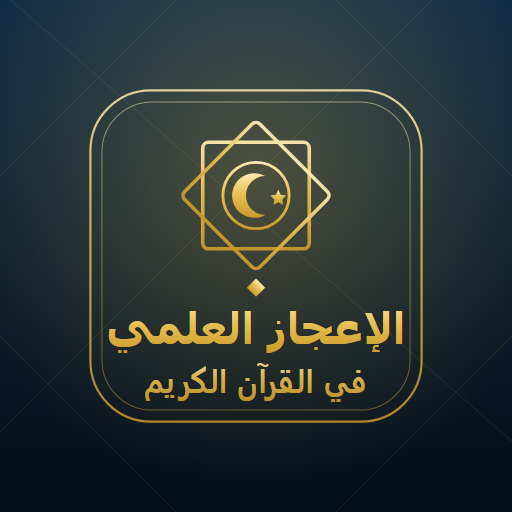
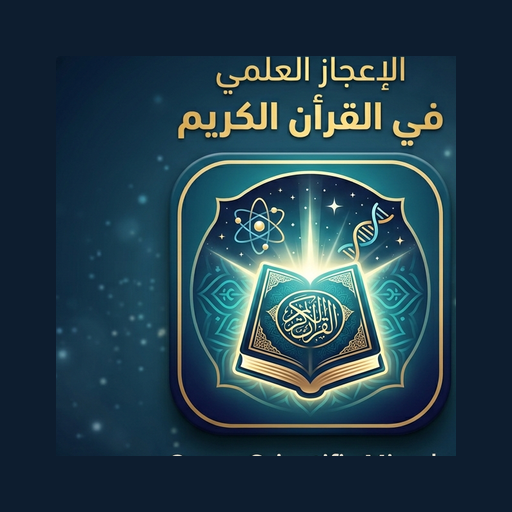
أيقونة جديدة من الصورة + شاشة دخول (splash): استبدال أيقونات التثبيت (192/512/maskable + apple-touch)، إضافة shاشة بداية بخلفية الصورة تتلاشى تلقائياً، وتحديث المانيفست والكاش إلى v14

diff --git a/style.css b/style.css
@@ -665,6 +665,42 @@ html[dir="rtl"] .side-menu__panel { transform: translateX(-100%); inset-inline-e
   backdrop-filter: blur(10px);
 }
 
+/* ------------------------------ Splash / شاشة الدخول ------------------------------ */
+.splash {
+  position: fixed; inset: 0; z-index: 200; display: grid; place-items: center;
+  background: #0d1d2f url("./splash.jpg") center / cover no-repeat;
+  transition: opacity .55s ease, visibility .55s ease; opacity: 1;
+}
+.splash::before {
+  content: ""; position: absolute; inset: 0;
+  background: radial-gradient(120% 90% at 50% 30%, rgba(13, 29, 47, .18), rgba(5, 13, 23, .88) 78%);
+}
+.splash-inner { position: relative; z-index: 1; text-align: center; padding: 28px; max-width: 90vw; }
+.splash-logo {
+  width: 120px; height: 120px; border-radius: 28px; object-fit: cover;
+  box-shadow: 0 14px 40px rgba(0, 0, 0, .55), 0 0 0 1px rgba(229, 189, 78, .38);
+  animation: splashPop .6s cubic-bezier(.2, .9, .3, 1.2) both;
+}
+.splash-title {
+  margin: 18px 0 0; font-size: clamp(22px, 5.2vw, 34px); line-height: 1.5; font-weight: 800;
+  background: linear-gradient(180deg, var(--gold-1), var(--gold-2));
+  -webkit-background-clip: text; background-clip: text; color: transparent;
+  filter: drop-shadow(0 2px 14px rgba(0, 0, 0, .4));
+}
+.splash-title span { font-size: .6em; -webkit-text-fill-color: #dbe7f2; color: #dbe7f2; }
+.splash-bar {
+  display: inline-block; width: 132px; height: 4px; margin-top: 22px; border-radius: 999px;
+  overflow: hidden; background: rgba(255, 255, 255, .16); position: relative;
+}
+.splash-bar::after {
+  content: ""; position: absolute; top: 0; bottom: 0; width: 40%; left: -40%; border-radius: 999px;
+  background: linear-gradient(90deg, var(--gold-1), var(--gold-2));
+  animation: splashLoad 1.15s ease-in-out infinite;
+}
+.splash.hide { opacity: 0; visibility: hidden; pointer-events: none; }
+@keyframes splashPop { from { opacity: 0; transform: translateY(10px) scale(.92); } to { opacity: 1; transform: none; } }
+@keyframes splashLoad { 0% { left: -40%; } 100% { left: 100%; } }
+
 /* ------------------------------ Motion prefs / Print ------------------------------ */
 @media (prefers-reduced-motion: reduce) {
   * { animation: none !important; transition: none !important; }

diff --git a/index.html b/index.html
@@ -3,7 +3,7 @@
 <head>
   <meta charset="UTF-8" />
   <meta name="viewport" content="width=device-width, initial-scale=1, viewport-fit=cover" />
-  <meta name="theme-color" content="#07131f" />
+  <meta name="theme-color" content="#0d1d2f" />
   <meta name="description" content="تطبيق وموقع تفاعلي (PWA) عن الإعجاز العلمي في القرآن الكريم: الآيات، التفسير، دلالات الإعجاز، شهادات العلماء، المراجع والأبحاث، وقنوات علمية." />
   <meta name="apple-mobile-web-app-capable" content="yes" />
   <meta name="apple-mobile-web-app-status-bar-style" content="black-translucent" />
@@ -11,11 +11,19 @@
   <title>الإعجاز العلمي في القرآن الكريم</title>
   <link rel="manifest" href="./manifest.webmanifest" />
   <link rel="icon" type="image/png" sizes="512x512" href="./icon-512.png" />
-  <link rel="icon" type="image/svg+xml" href="./icon-192.svg" />
+  <link rel="icon" type="image/png" sizes="192x192" href="./icon-192.png" />
+  <link rel="apple-touch-icon" sizes="180x180" href="./apple-touch-icon.png" />
   <link rel="apple-touch-icon" sizes="192x192" href="./icon-192.png" />
   <link rel="stylesheet" href="./style.css" />
 </head>
 <body>
+  <div id="splash" class="splash" role="status" aria-label="جارٍ فتح التطبيق">
+    <div class="splash-inner">
+      <img class="splash-logo" src="./icon-512.png" alt="" width="120" height="120" />
+      <h1 class="splash-title">الإعجاز العلمي<br /><span>في القرآن الكريم</span></h1>
+      <span class="splash-bar" aria-hidden="true"></span>
+    </div>
+  </div>
   <a class="skip-link" href="#view">تخطّي إلى المحتوى</a>
   <canvas id="starfield" class="starfield" aria-hidden="true"></canvas>
 

diff --git a/app.js b/app.js
@@ -1035,6 +1035,23 @@
     canvas._stop = () => { if (raf) cancelAnimationFrame(raf); };
   }
 
+  /* ------------------------------ Splash ------------------------------ */
+  function initSplash() {
+    const sp = $('#splash');
+    if (!sp) return;
+    let done = false;
+    const hide = () => {
+      if (done) return;
+      done = true;
+      sp.classList.add('hide');
+      window.setTimeout(() => { if (sp.parentNode) sp.parentNode.removeChild(sp); }, 700);
+    };
+    window.setTimeout(hide, 1700);
+    window.addEventListener('load', () => window.setTimeout(hide, 400));
+    ['pointerdown', 'touchstart', 'keydown'].forEach((ev) =>
+      window.addEventListener(ev, hide, { once: true, passive: true }));
+  }
+
   /* ------------------------------ Init ------------------------------ */
   let tilawahEl = null;
   const savedAudio = loadJSON(LS_AUDIO, null);
@@ -1127,6 +1144,7 @@
     document.addEventListener('keydown', (e) => { if (e.key === 'Escape' && !$('#modal').hidden) hideModal(); });
 
     initStarfield();
+    initSplash();
     initSearch();
     initPWA();
     initNetState();

diff --git a/sw.js b/sw.js
@@ -1,6 +1,6 @@
 /* Service Worker — الإعجاز العلمي في القرآن الكريم
    استراتيجية: precache للأصول الأساسية + cache-first مع تحديث في الخلفية */
-const CACHE = 'quran-miracles-v13';
+const CACHE = 'quran-miracles-v14';
 const ASSETS = [
   './',
   './index.html',
@@ -8,13 +8,12 @@ const ASSETS = [
   './data.js',
   './app.js',
   './tilawah.mp3',
+  './splash.jpg',
   './manifest.webmanifest',
   './icon-192.png',
   './icon-512.png',
   './icon-maskable.png',
-  './icon-192.svg',
-  './icon-512.svg',
-  './icon-maskable.svg'
+  './apple-touch-icon.png'
 ];
 
 self.addEventListener('install', (event) => {
